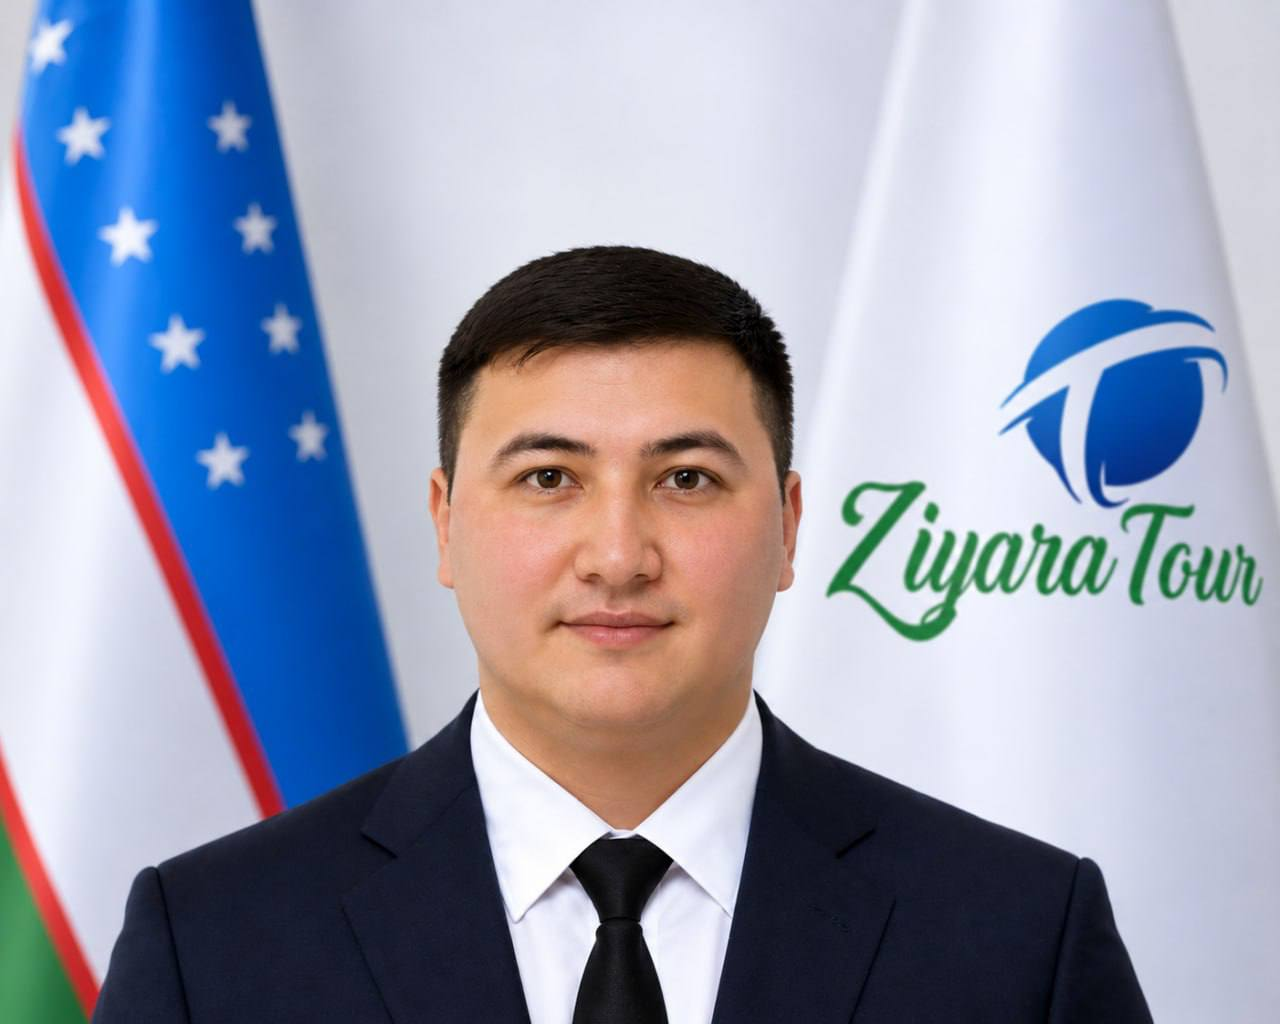
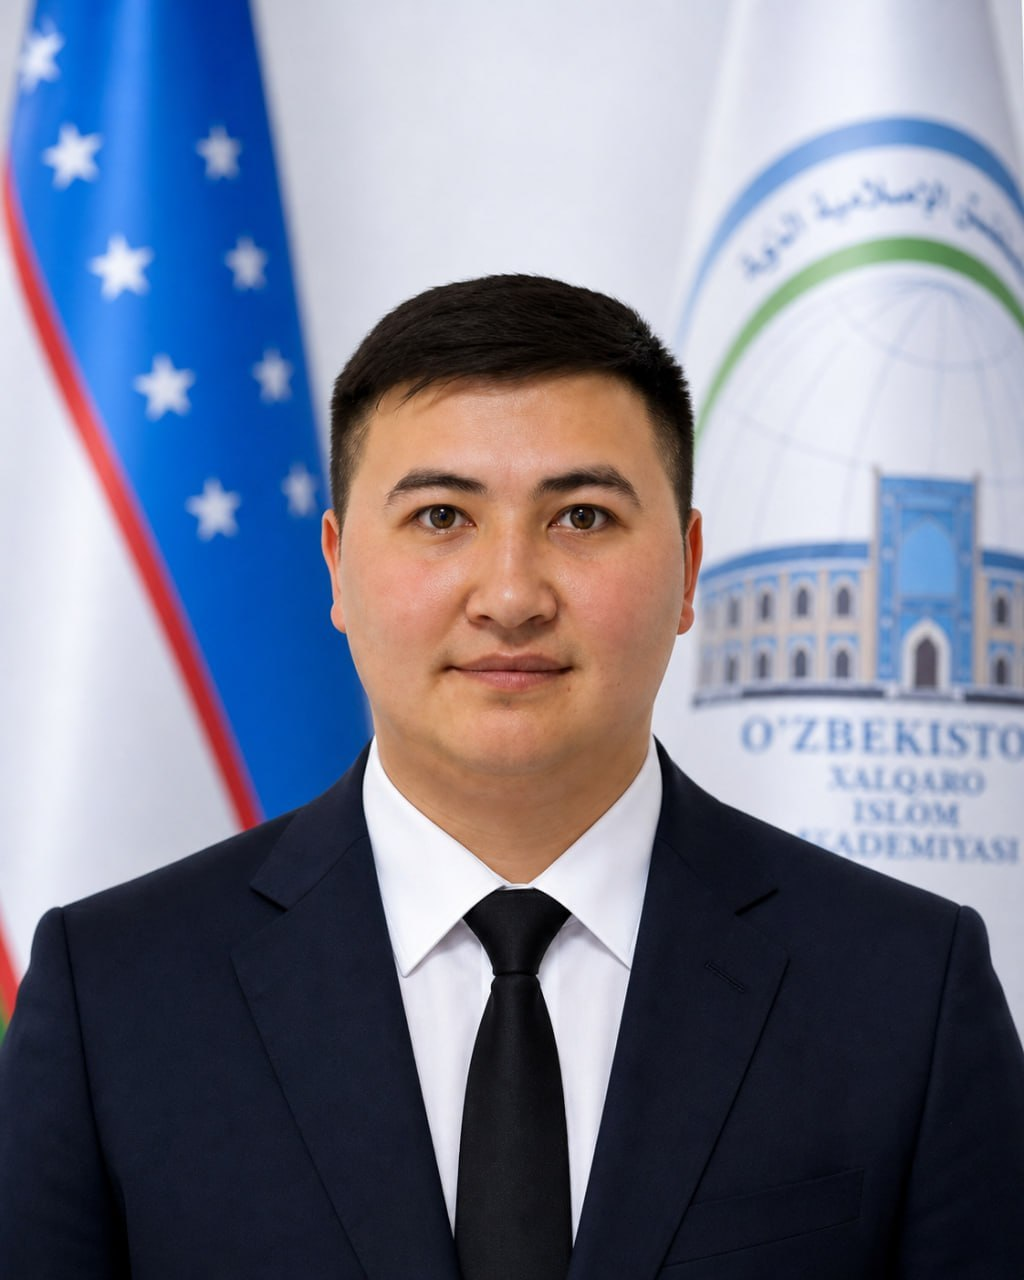
Replace About Us team portraits with unbranded photos

diff --git a/src/pages/About.jsx b/src/pages/About.jsx
@@ -5,9 +5,9 @@ import Reveal from '../components/Reveal.jsx'
 import Img from '../components/Img.jsx'
 
 const team = [
-  { name: 'Kamalova Makhsuda', image: 'kamalova-makhsuda.jpg', role: 'ceo', width: 1145, height: 1374 },
-  { name: 'Yunusova Shahzoda', image: 'yunusova-shahzoda.jpg', role: 'headManager', width: 1144, height: 1375 },
-  { name: 'Esonboyev Bakhodir', image: 'esonboyev-bakhodir.jpg', role: 'manager', width: 1280, height: 1024 },
+  { name: 'Kamalova Makhsuda', image: 'kamalova-makhsuda.jpg', role: 'ceo', width: 1065, height: 1280 },
+  { name: 'Yunusova Shahzoda', image: 'yunusova-shahzoda.jpg', role: 'headManager', width: 1065, height: 1280 },
+  { name: 'Esonboyev Bakhodir', image: 'esonboyev-bakhodir.jpg', role: 'manager', width: 1024, height: 1280 },
 ]
 
 function SectionTitle({ eyebrow, title }) {
